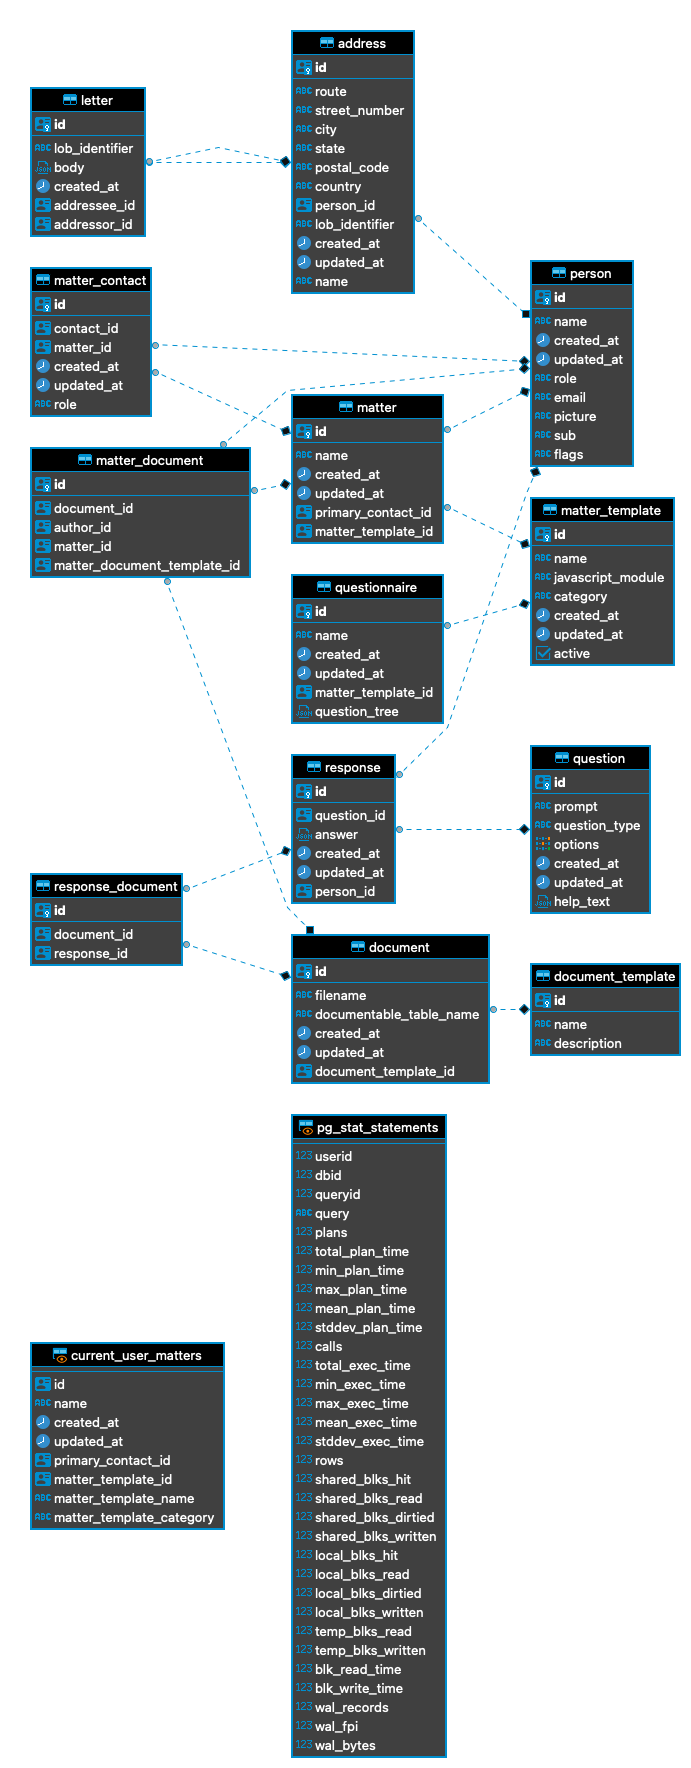
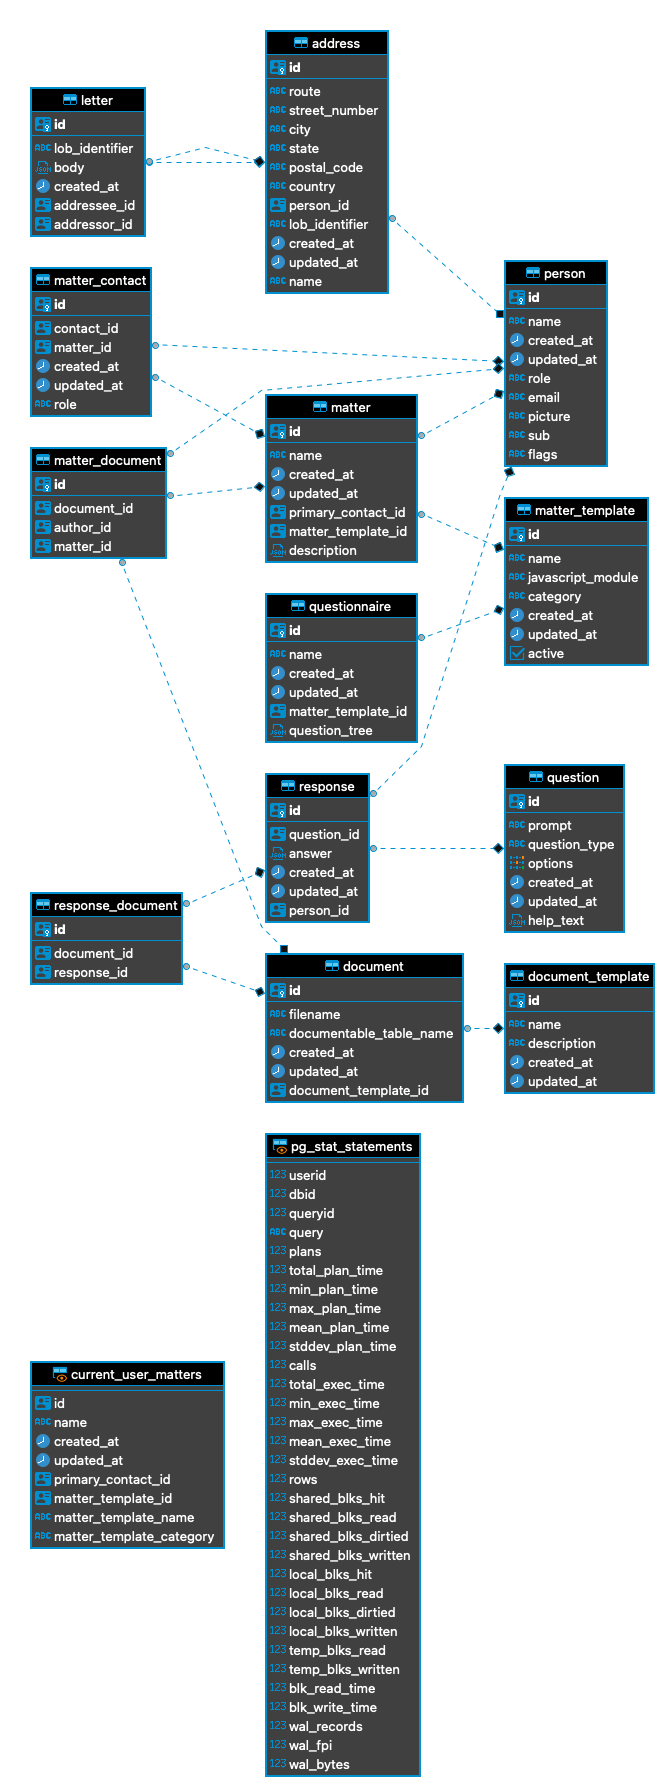
add description to matter (#1955)
* add description to matter

and add timestamps to document_template and remove a foreign key
reference no longer needed.

diff --git a/web/src/utils/api.tsx b/web/src/utils/api.tsx
@@ -1409,6 +1409,8 @@ export type DocumentTemplate = Node & {
   id: Scalars['UUID'];
   name: Scalars['String'];
   description: Scalars['String'];
+  createdAt: Scalars['Datetime'];
+  updatedAt: Scalars['Datetime'];
 };
 
 /**
@@ -1425,6 +1427,8 @@ export type DocumentTemplateInput = {
   id?: Maybe<Scalars['UUID']>;
   name: Scalars['String'];
   description: Scalars['String'];
+  createdAt?: Maybe<Scalars['Datetime']>;
+  updatedAt?: Maybe<Scalars['Datetime']>;
 };
 
 /** Represents an update to a `DocumentTemplate`. Fields that are set will be updated. */
@@ -1432,6 +1436,8 @@ export type DocumentTemplatePatch = {
   id?: Maybe<Scalars['UUID']>;
   name?: Maybe<Scalars['String']>;
   description?: Maybe<Scalars['String']>;
+  createdAt?: Maybe<Scalars['Datetime']>;
+  updatedAt?: Maybe<Scalars['Datetime']>;
 };
 
 /** A connection to a list of `DocumentTemplate` values. */
@@ -1556,6 +1562,7 @@ export type Matter = Node & {
   updatedAt: Scalars['Datetime'];
   primaryContactId?: Maybe<Scalars['UUID']>;
   matterTemplateId: Scalars['UUID'];
+  description: Scalars['JSON'];
   /** Reads a single `Person` that is related to this `Matter`. */
   primaryContact?: Maybe<Person>;
   /** Reads a single `MatterTemplate` that is related to this `Matter`. */
@@ -1658,7 +1665,6 @@ export type MatterDocument = Node & {
   documentId: Scalars['UUID'];
   authorId: Scalars['UUID'];
   matterId: Scalars['UUID'];
-  matterDocumentTemplateId: Scalars['UUID'];
   /** Reads a single `Document` that is related to this `MatterDocument`. */
   document?: Maybe<Document>;
   /** Reads a single `Person` that is related to this `MatterDocument`. */
@@ -1721,6 +1727,7 @@ export type MatterInput = {
   updatedAt?: Maybe<Scalars['Datetime']>;
   primaryContactId?: Maybe<Scalars['UUID']>;
   matterTemplateId: Scalars['UUID'];
+  description?: Maybe<Scalars['JSON']>;
 };
 
 /** Represents an update to a `Matter`. Fields that are set will be updated. */
@@ -1731,6 +1738,7 @@ export type MatterPatch = {
   updatedAt?: Maybe<Scalars['Datetime']>;
   primaryContactId?: Maybe<Scalars['UUID']>;
   matterTemplateId?: Maybe<Scalars['UUID']>;
+  description?: Maybe<Scalars['JSON']>;
 };
 
 /** A connection to a list of `Matter` values. */
